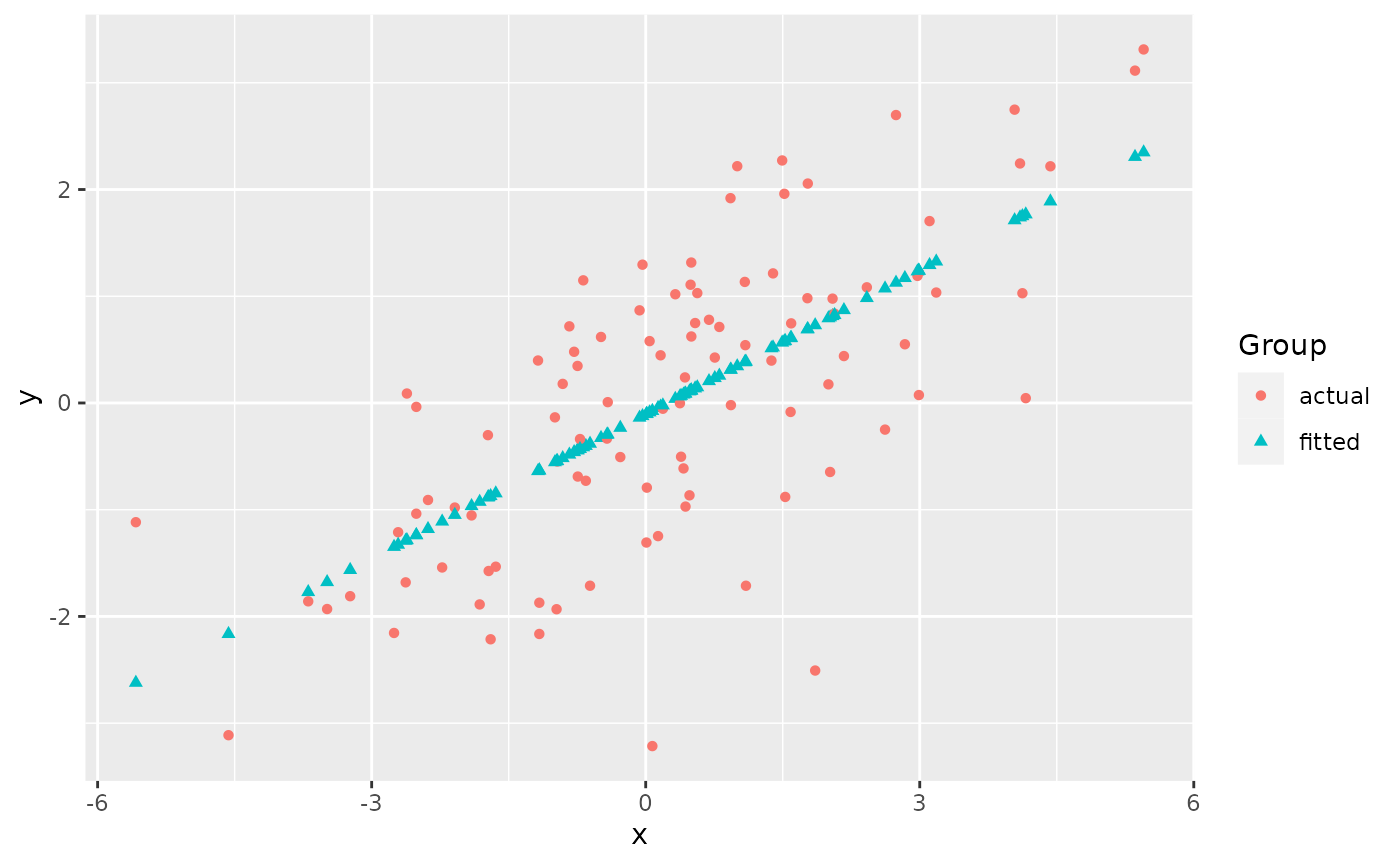
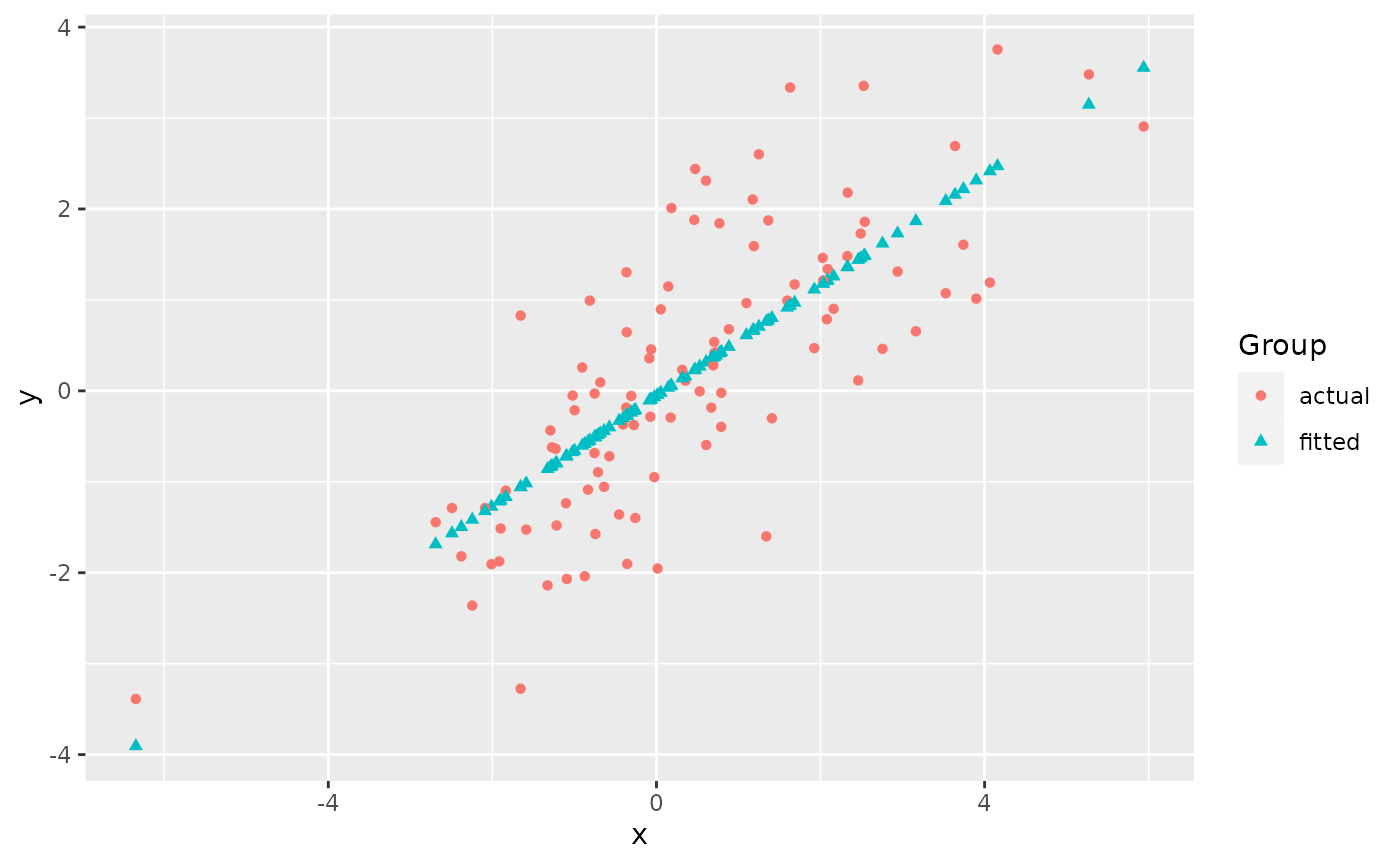
Built site for ggmatplot: 0.1.1@d156c32

diff --git a/articles/ggmatplot.html b/articles/ggmatplot.html
@@ -103,7 +103,7 @@
 <span class="va">x</span> <span class="op">&lt;-</span> <span class="fu"><a href="https://rdrr.io/r/base/c.html" class="external-link">c</a></span><span class="op">(</span><span class="fu"><a href="https://rdrr.io/r/stats/Normal.html" class="external-link">rnorm</a></span><span class="op">(</span><span class="fl">100</span>, sd <span class="op">=</span> <span class="fl">2</span><span class="op">)</span><span class="op">)</span>
 
 <span class="fu"><a href="https://rdrr.io/r/utils/head.html" class="external-link">head</a></span><span class="op">(</span><span class="va">x</span><span class="op">)</span>
-<span class="co">#&gt; [1]  1.0020406 -2.5113674 -0.9758883  5.4510655 -1.1645736  0.3239843</span>
+<span class="co">#&gt; [1]  2.5265141  2.4896512 -2.4925065 -2.2452181 -0.8128786 -1.8991892</span>
 
 <span class="co"># matrix z</span>
 <span class="va">y</span> <span class="op">&lt;-</span> <span class="va">x</span> <span class="op">*</span> <span class="fl">0.5</span> <span class="op">+</span> <span class="fu"><a href="https://rdrr.io/r/stats/Normal.html" class="external-link">rnorm</a></span><span class="op">(</span><span class="fl">100</span>, sd <span class="op">=</span> <span class="fl">1</span><span class="op">)</span>
@@ -112,13 +112,13 @@
            fitted <span class="op">=</span> <span class="va">fit.y</span><span class="op">)</span>
 
 <span class="fu"><a href="https://rdrr.io/r/utils/head.html" class="external-link">head</a></span><span class="op">(</span><span class="va">z</span><span class="op">)</span>
-<span class="co">#&gt;        actual      fitted</span>
-<span class="co">#&gt; 1  2.21851072  0.34439591</span>
-<span class="co">#&gt; 2 -0.03655034 -1.23824556</span>
-<span class="co">#&gt; 3 -1.93233213 -0.54657725</span>
-<span class="co">#&gt; 4  3.31242427  2.34849320</span>
-<span class="co">#&gt; 5 -1.87155906 -0.63157201</span>
-<span class="co">#&gt; 6  1.01865629  0.03896027</span></code></pre></div>
+<span class="co">#&gt;       actual     fitted</span>
+<span class="co">#&gt; 1  3.3539134  1.4813121</span>
+<span class="co">#&gt; 2  1.7297147  1.4589287</span>
+<span class="co">#&gt; 3 -1.2882752 -1.5662813</span>
+<span class="co">#&gt; 4 -2.3609310 -1.4161256</span>
+<span class="co">#&gt; 5  0.9924054 -0.5463965</span>
+<span class="co">#&gt; 6 -1.5137446 -1.2060138</span></code></pre></div>
 <p><code>ggmatplot</code> plots vector <code>x</code> against each column of matrix <code>z</code> using the default <code>plot_type = "point"</code>. This will be represented on the resulting plot as two groups, identified using different shapes and colors.</p>
 <div class="sourceCode" id="cb2"><pre class="downlit sourceCode r">
 <code class="sourceCode R"><span class="kw"><a href="https://rdrr.io/r/base/library.html" class="external-link">library</a></span><span class="op">(</span><span class="va"><a href="https://github.com/xuan-liang/ggmatplot" class="external-link">ggmatplot</a></span><span class="op">)</span>
